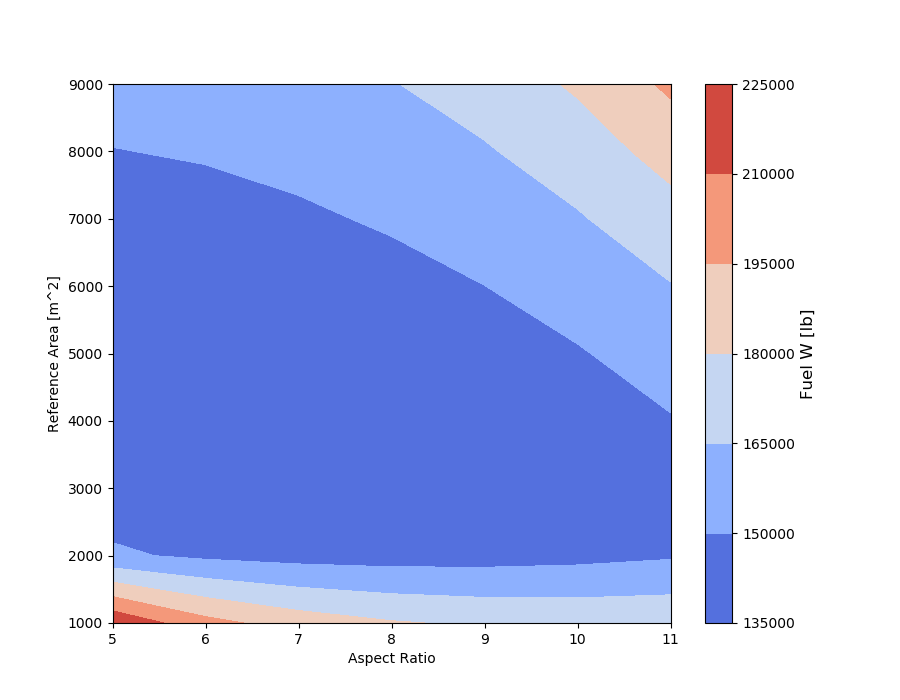
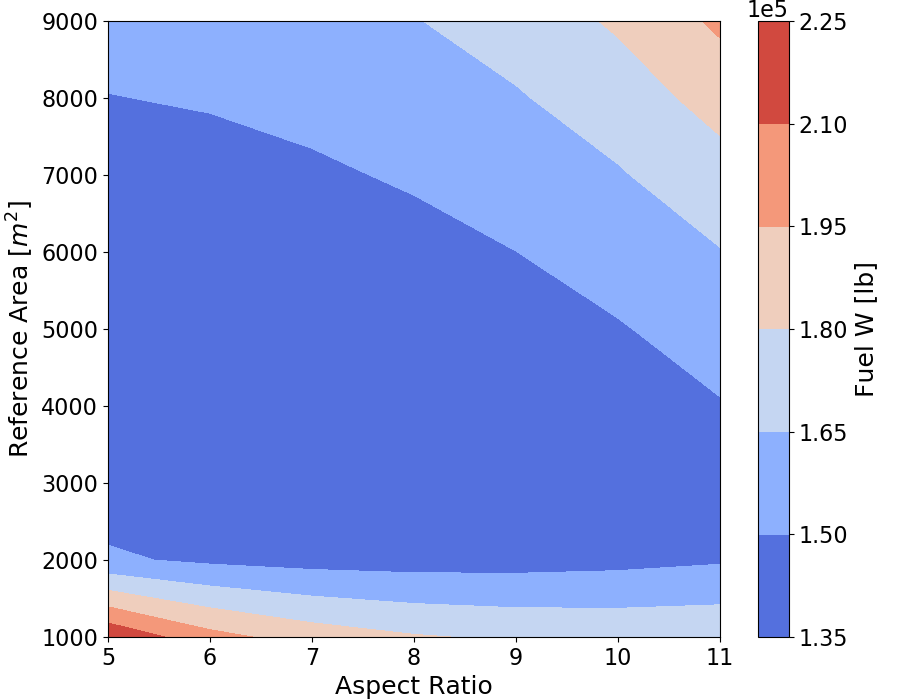
AE442 HW 7 - update

Changed region(s): [[0.0, 0.0, 0.9644, 1.0], [0.9333, 0.39, 0.9956, 0.42]]

diff --git a/AE442/HW_7/AE442_hw7.py b/AE442/HW_7/AE442_hw7.py
@@ -1,8 +1,7 @@
 import numpy as np
 import matplotlib.pyplot as plt
-import pandas as pd
+import matplotlib.ticker as tick
 import os
-from scipy.interpolate import CubicSpline
 from collections import Counter
 import shutil
 
@@ -25,11 +24,11 @@ class parseData():
         parseData.parse(self)
 
         # Plot Data
-        parseData.plotColor(self, self.AR, self.S, self.MRW, 'Aspect Ratio', 'Reference Area [m^2]', 'MRW [lb]')
-        parseData.plotColor(self, self.AR, self.S, self.W_empty, 'Aspect Ratio', 'Reference Area [m^2]', 'Empty W [lb]')
-        parseData.plotColor(self, self.AR, self.S, self.W_fuel, 'Aspect Ratio', 'Reference Area [m^2]', 'Fuel W [lb]')
-        parseData.plotColor(self, self.AR, self.S, self.FN, 'Aspect Ratio', 'Reference Area [m^2]', 'FN [lb]')
-        parseData.plotColor(self, self.AR, self.S, self.BFL, 'Aspect Ratio', 'Reference Area [m^2]', 'BFL [ft]')
+        parseData.plotColor(self, self.AR, self.S, self.MRW, 'Aspect Ratio', 'Reference Area $[m^2]$', 'MRW [lb]')
+        parseData.plotColor(self, self.AR, self.S, self.W_empty, 'Aspect Ratio', 'Reference Area $[m^2]$', 'Empty W [lb]')
+        parseData.plotColor(self, self.AR, self.S, self.W_fuel, 'Aspect Ratio', 'Reference Area $[m^2]$', 'Fuel W [lb]')
+        parseData.plotColor(self, self.AR, self.S, self.FN, 'Aspect Ratio', 'Reference Area $[m^2]$', 'FN [lb]')
+        parseData.plotColor(self, self.AR, self.S, self.BFL, 'Aspect Ratio', 'Reference Area $[m^2]$', 'BFL [ft]')
         plt.show()
 
     def parse(self):
@@ -54,10 +53,13 @@ class parseData():
 
     def plotColor(self, x_axis, y_axis, z_axis, x_label, y_label, z_label):
         color_plot = plt.figure(figsize=(9, 7))
+        color_plot.subplots_adjust(hspace=.18, left=.12, right=.97, top=.97, bottom=.09)
         color_plot.tight_layout()
         cplot = color_plot.add_subplot(1, 1, 1)
-        cplot.set_xlabel(x_label)
-        cplot.set_ylabel(y_label)
+        cplot.set_xlabel(x_label, fontsize=18)
+        cplot.set_ylabel(y_label, fontsize=18)
+        cplot.tick_params(axis='both', which='major', labelsize=16)
+        cplot.tick_params(axis='both', which='minor', labelsize=16)
         x_unique = list(Counter(x_axis).keys())
         y_unique = list(Counter(y_axis).keys())
         x = np.linspace(min(x_unique), max(x_unique), len(x_unique))
@@ -79,8 +81,16 @@ class parseData():
                 Z[j][i] = z_val
 
         cont = cplot.contourf(X, Y, Z, cmap='coolwarm')
+        #ax1 = color_plot.add_axes([.92, 0.07, 0.02, 0.9])
         cbar = color_plot.colorbar(cont)
-        cbar.set_label(z_label, fontsize=12)
+        cbar.set_label(z_label, fontsize=18)
+        cbar.formatter.set_scientific(True)
+        cbar.formatter.set_powerlimits((0, 0))
+        cbar.ax.tick_params(labelsize=16)
+        cbar.ax.yaxis.get_offset_text().set_fontsize(16)
+
+        cbar.update_ticks()
+
         color_plot.savefig(os.path.join(os.getcwd(), f'plots\\{os.path.basename(self.filename).split("_")[0]}_{z_label.split()[0]}_{x_label.split()[0]}_{y_label.split()[0]}'))
         plt.draw()
 
